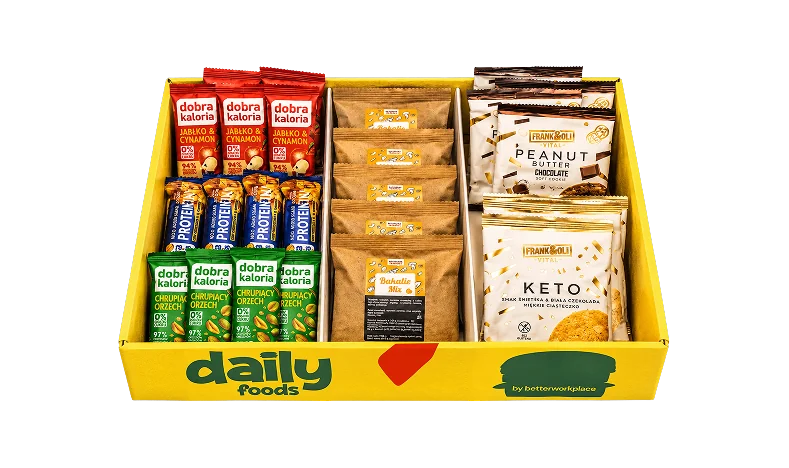
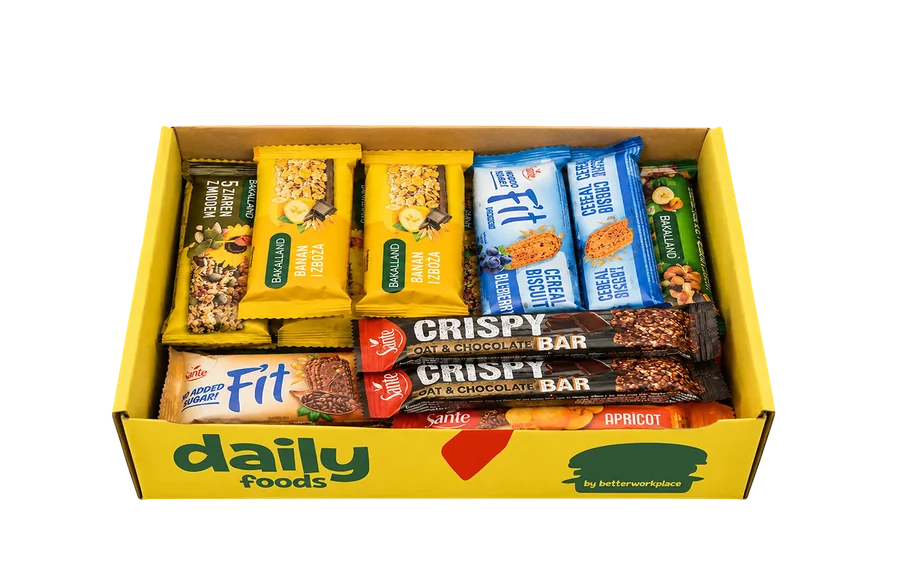
fix(oferta): czyste packshoty batonow (bez napisu 'packshot')
- kat-batony-crunchy.webp: nowy czysty packshot Sante Crunchy
- kat-mix-batonow-i-ciasteczek.webp: nowy czysty packshot mix batonow/ciasteczek
- zaktualizowane width/height (900x574 / 900x581) - bez skoku layoutu
Pliki dostarczone przez klienta, konwersja PNG->WebP (max 900px, q85).

diff --git a/oferta.html b/oferta.html
@@ -536,11 +536,11 @@ html.pt-in body>:not(header) { animation: ptFadeIn 0.32s ease both; }
                 <div class="product-card-body"><h3>Kulki i chipsy</h3><ul class="skladniki"><li>Kulki Mocy 65 g x8</li><li>Chipsy z jabłka 18 g x4</li><li>Baton owocowy 35 g x12</li></ul></div>
             </div>
             <div class="product-card">
-                <div class="product-card-img"><img src="kat-mix-batonow-i-ciasteczek.webp" alt="Batony i bakalie" loading="lazy" width="789" height="468"></div>
+                <div class="product-card-img"><img src="kat-mix-batonow-i-ciasteczek.webp" alt="Batony i bakalie" loading="lazy" width="900" height="581"></div>
                 <div class="product-card-body"><h3>Batony i bakalie</h3><ul class="skladniki"><li>Baton owocowy 35 g x10</li><li>Ciasteczko Keto 50 g x3</li><li>Ciasteczko 50 g x4</li><li>Bakalie MIX 65 g x6</li></ul><details class="sklad-more"><summary>Pełny skład (+1)</summary><ul class="skladniki"><li>Baton proteinowy 45 g x5</li></ul></details></div>
             </div>
             <div class="product-card">
-                <div class="product-card-img"><img src="kat-batony-crunchy.webp" alt="Batony Crunchy" loading="lazy" width="583" height="333"></div>
+                <div class="product-card-img"><img src="kat-batony-crunchy.webp" alt="Batony Crunchy" loading="lazy" width="900" height="574"></div>
                 <div class="product-card-body"><h3>Batony Crunchy</h3><ul class="skladniki"><li>Baton Crunchy, mix trzech smaków x30</li></ul></div>
             </div>
             <div class="product-card">
